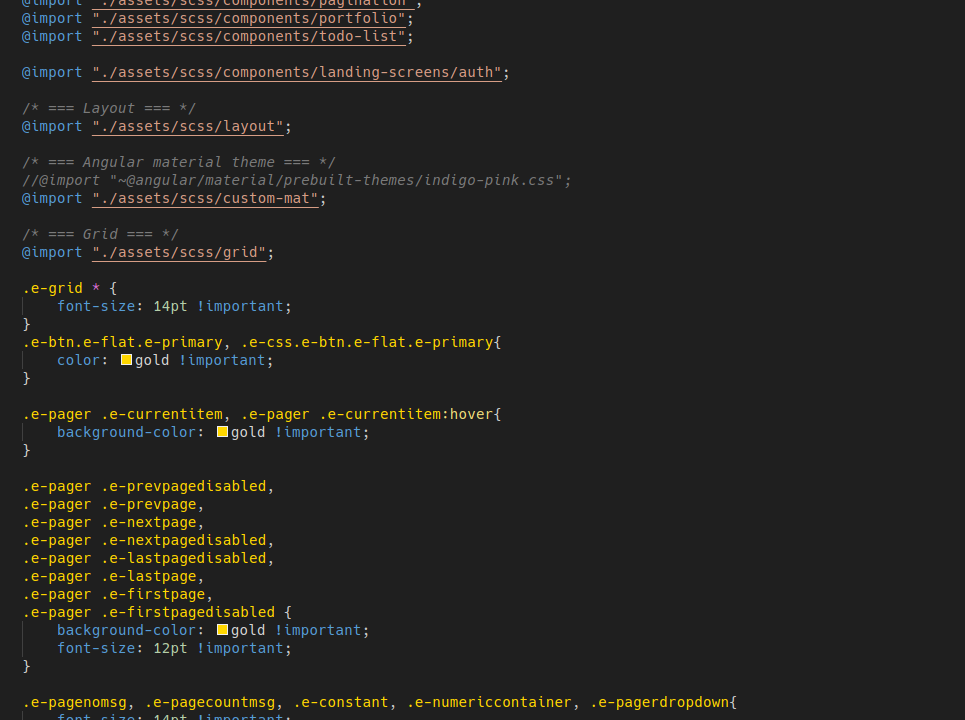
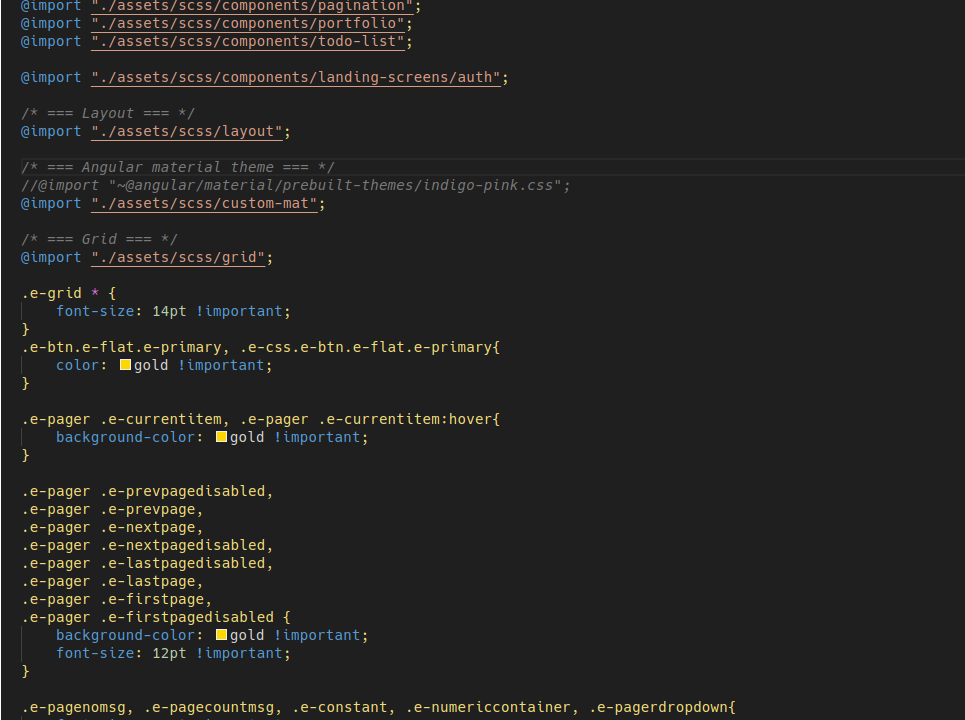
css screenshot update, readme update,  theme json tweak

diff --git a/README.md b/README.md
@@ -28,3 +28,13 @@ Perfect for developers who spend long hours in the editor, this theme prioritize
 
 ### JSON
 ![Screenshot JSON](images/screenshot_json.png)
+
+## Considerations
+
+- **settings.json**
+  ```
+  {
+    "editor.guides.indentation": true,
+    "editor.bracketPairColorization.enabled": true
+  }
+  ```
